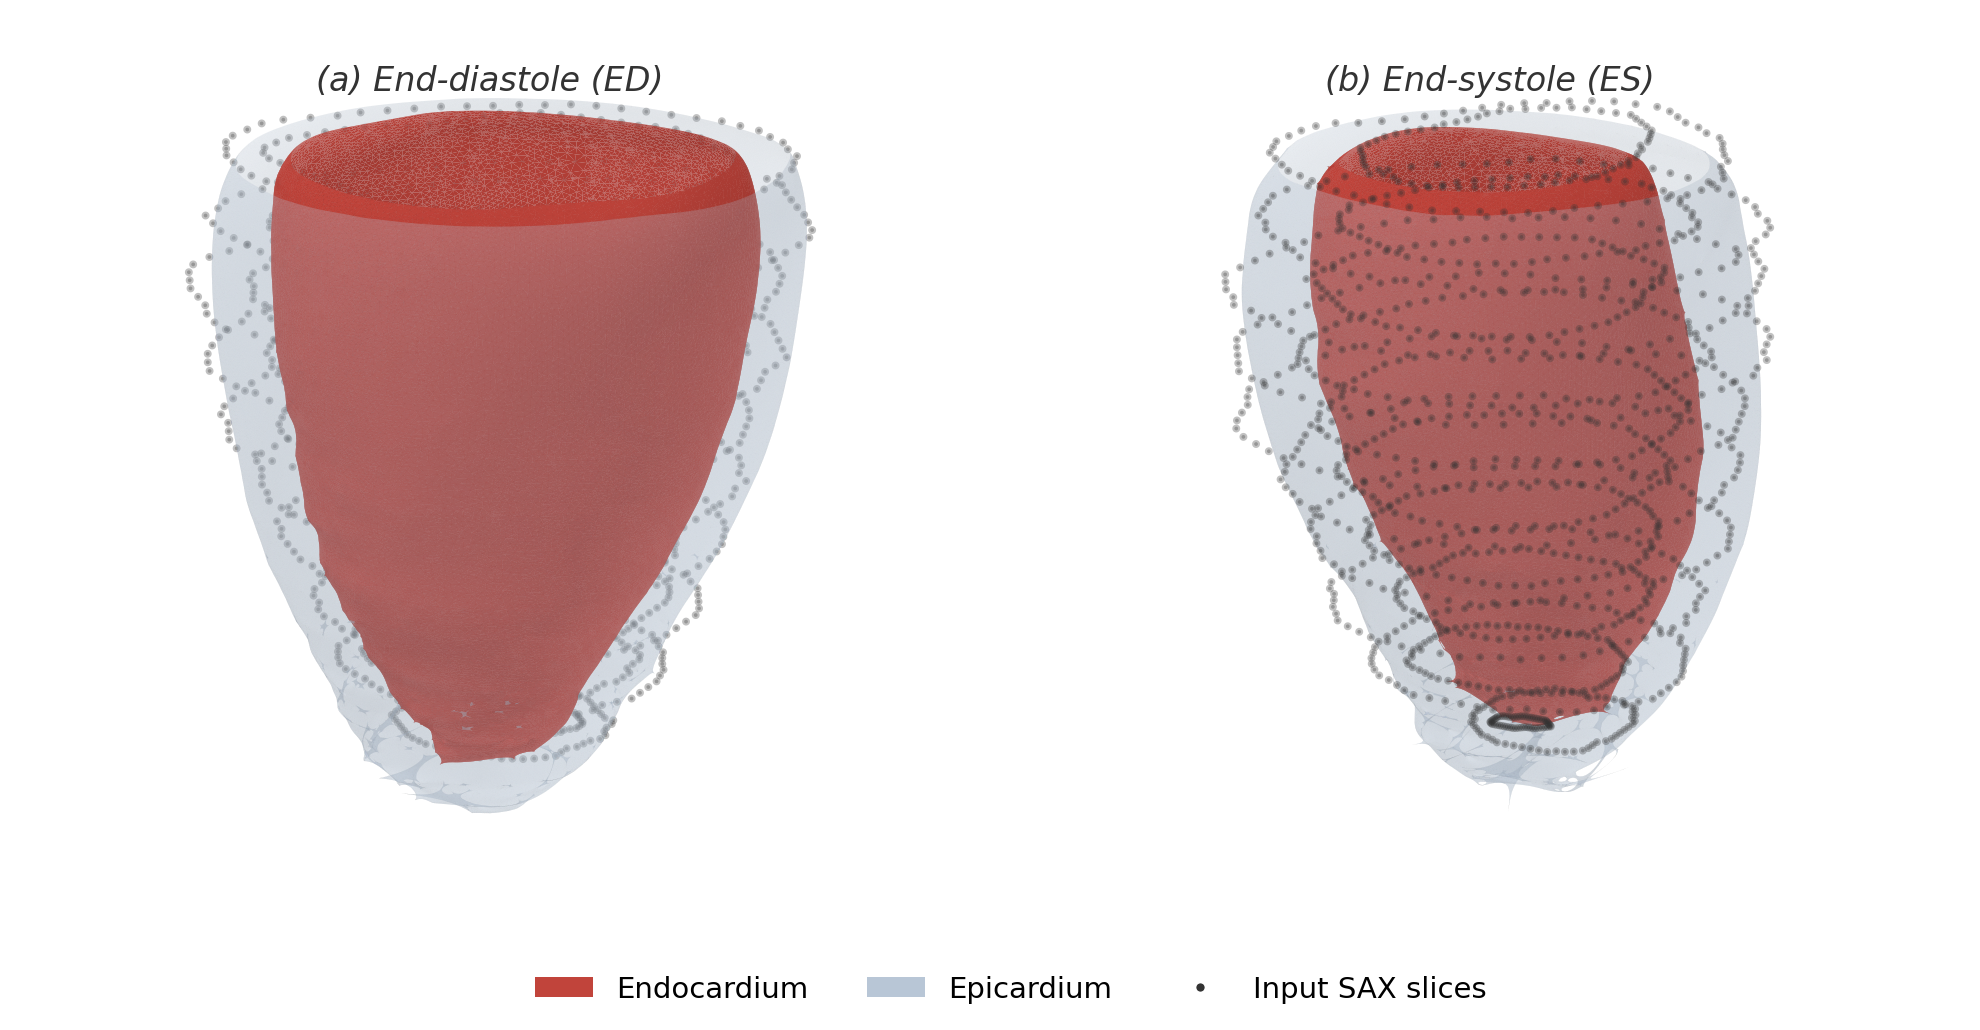
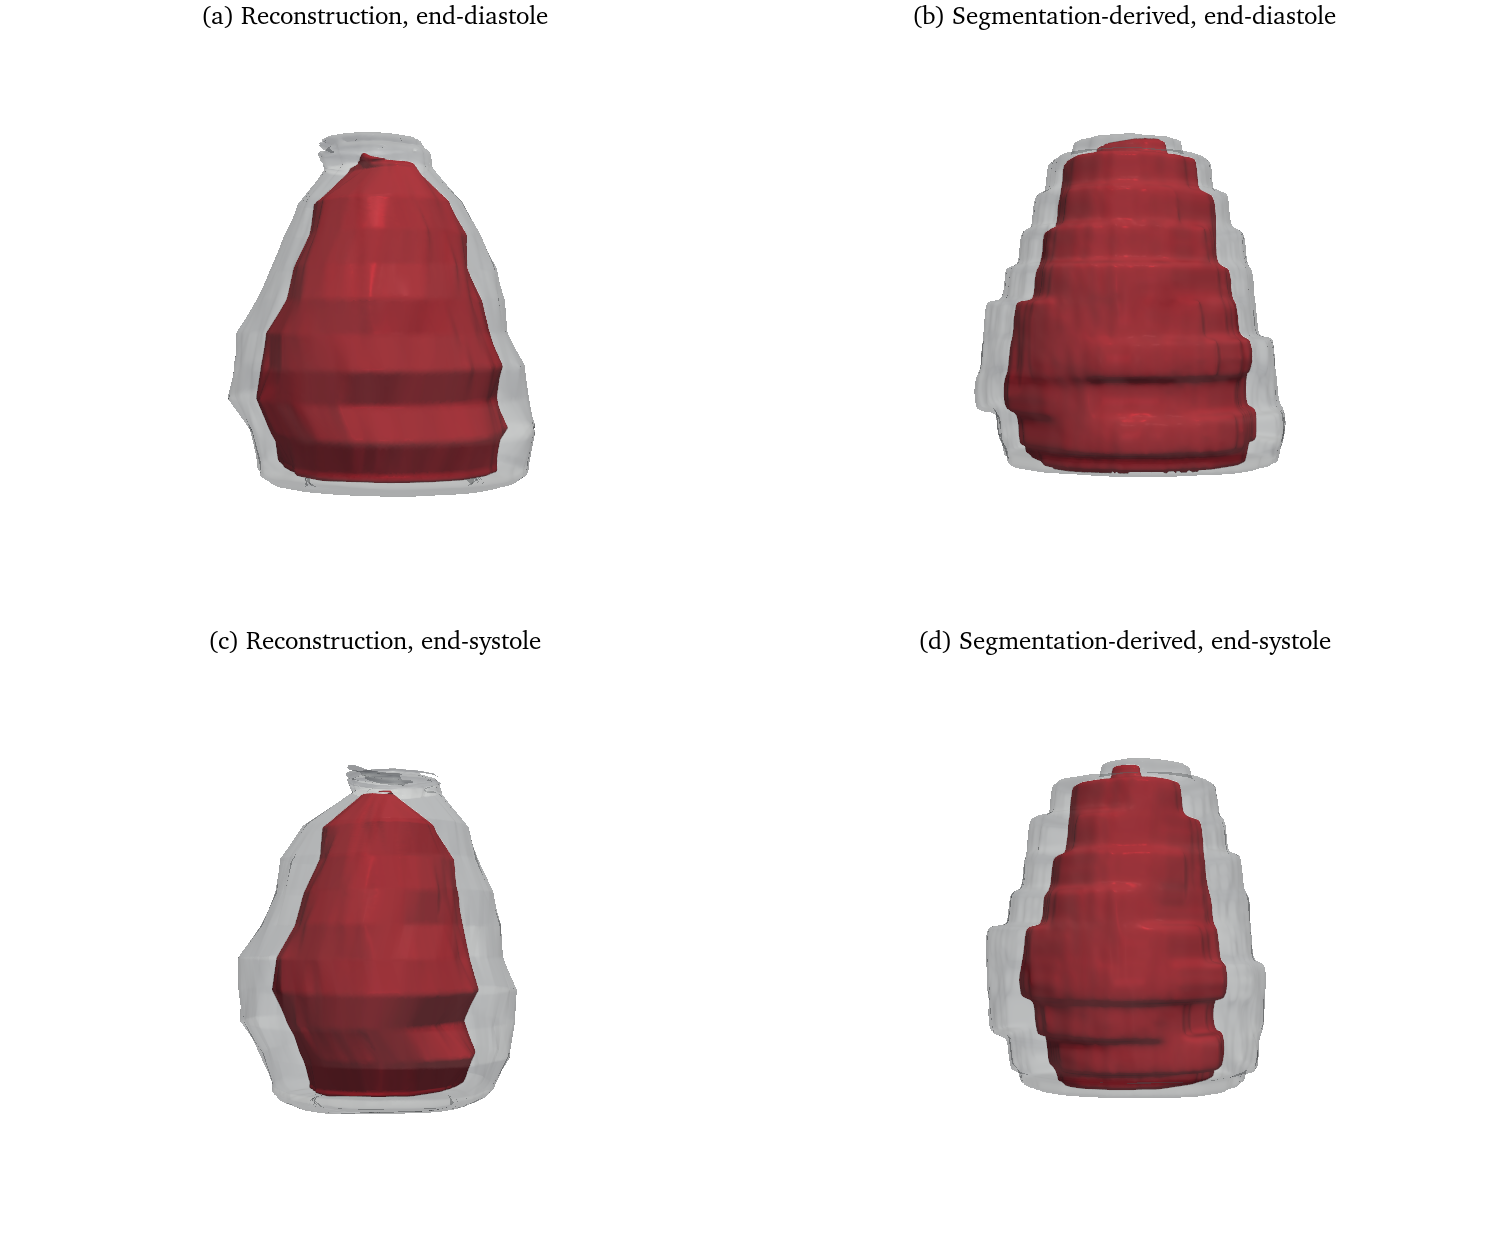
Update patient002 reconstruction script; enhance output descriptions, improve mesh loading, and ensure watertight surfaces.

diff --git a/scripts/fig_recon_ed_es_v2.py b/scripts/fig_recon_ed_es_v2.py
@@ -1,11 +1,11 @@
-"""Render the reconstruction figure for the Results chapter (new v2 cohort).
+"""Render patient002 reconstruction and segmentation-derived surfaces.
 
-Writes ``images/results_recon_ed_es.png``: the watertight reconstructed surfaces
-beside the segmentation-derived ("true") meshes, at both cardiac phases. Meshes
-are read from the cohort cache written by the evaluation run, so nothing is
-recomputed here.
+The four-panel layout matches the original Results figure. Only the model
+surfaces are radially snapped to the observed SAX contours using the same
+topology-preserving operation as the cohort evaluator. The comparator meshes
+are rendered exactly as cached, without smoothing or deformation.
 
-    C:/Python313/python.exe scripts/fig_recon_ed_es_v2.py [patientID]
+Output: ``images/results_recon_ed_es.png``.
 """
 from __future__ import annotations
 
@@ -14,26 +14,67 @@ from pathlib import Path
 
 import numpy as np
 import pyvista as pv
+import trimesh
 
 THESIS = Path(__file__).resolve().parents[1]
-CACHE = THESIS / "test-new-model" / "cohort_full_nor_hcm10" / "cache"
+DEMO_OUT = THESIS / "scripts" / "eval_demo" / "outputs"
 OUT = THESIS / "images" / "results_recon_ed_es.png"
+PATIENT = "patient002"
 
-PATIENT = sys.argv[1] if len(sys.argv) > 1 else "patient061"
+sys.path.insert(0, str(THESIS / "scripts" / "webapp"))
+from core.sdf_model import _snap_mesh_to_contours  # noqa: E402
+
 ENDO_COLOUR = "#c1121f"
 EPI_COLOUR = "#adb5bd"
 
+pv.OFF_SCREEN = True
 pv.global_theme.font.family = "times"
 
 
-def load(tag: str) -> pv.PolyData:
-    return pv.read(CACHE / f"{PATIENT}_{tag}.ply")
+def _polydata(vertices: np.ndarray, faces: np.ndarray) -> pv.PolyData:
+    cells = np.hstack([
+        np.full((len(faces), 1), 3, dtype=np.int64),
+        np.asarray(faces, dtype=np.int64),
+    ]).ravel()
+    return pv.PolyData(np.asarray(vertices, dtype=np.float32), cells)
+
+
+def load_surfaces() -> tuple[dict, dict]:
+    """Load patient002 meshes and snap only the model to the input contours."""
+    surfaces = {}
+    diagnostics = {}
+    for phase in ("ED", "ES"):
+        with np.load(DEMO_OUT / f"demo_{PATIENT}_{phase}.npz") as data:
+            contours = np.asarray(data["contours_xyz_mm"], dtype=np.float32)
+            tissue = np.asarray(data["contours_tissue"], dtype=np.float32)
+            for kind in ("model", "voxel"):
+                for wall, label in (("endo", 0), ("epi", 1)):
+                    vertices = np.asarray(data[f"{kind}_{wall}_v"], dtype=np.float32)
+                    faces = np.asarray(data[f"{kind}_{wall}_f"], dtype=np.int64)
+                    if kind == "model":
+                        vertices = _snap_mesh_to_contours(
+                            vertices, contours, tissue, surface=wall)
+
+                    mesh = trimesh.Trimesh(vertices=vertices, faces=faces,
+                                           process=False)
+                    if not mesh.is_watertight:
+                        raise RuntimeError(f"{phase} {kind} {wall} is not watertight")
+
+                    contour = contours[np.abs(tissue - label) < 0.5]
+                    _, distances, _ = trimesh.proximity.closest_point(mesh, contour)
+                    key = (phase, kind, wall)
+                    surfaces[key] = _polydata(vertices, faces)
+                    diagnostics[key] = (
+                        float(np.mean(distances)),
+                        float(np.percentile(distances, 95)),
+                    )
+    return surfaces, diagnostics
 
 
 def panel(plotter, row: int, col: int, endo, epi, title: str, frame) -> None:
     plotter.subplot(row, col)
     plotter.add_text(title, font_size=11, position="upper_edge", color="black")
-    plotter.add_mesh(frame, opacity=0.0, show_scalar_bar=False)  # common framing
+    plotter.add_mesh(frame, opacity=0.0, show_scalar_bar=False)
     plotter.add_mesh(epi, color=EPI_COLOUR, opacity=0.28, smooth_shading=True,
                      specular=0.2)
     plotter.add_mesh(endo, color=ENDO_COLOUR, opacity=1.0, smooth_shading=True,
@@ -41,24 +82,17 @@ def panel(plotter, row: int, col: int, endo, epi, title: str, frame) -> None:
 
 
 def main() -> None:
-    surfaces = {}
-    for phase in ("ED", "ES"):
-        for kind in ("model", "voxel"):
-            for wall in ("endo", "epi"):
-                surfaces[(phase, kind, wall)] = load(f"{phase}_{kind}_{wall}")
+    surfaces, diagnostics = load_surfaces()
 
-    # Shared framing: an invisible box spanning every surface, added to each
-    # panel so all four are drawn at the same scale.
-    bounds = np.array([s.bounds for s in surfaces.values()])
+    bounds = np.array([surface.bounds for surface in surfaces.values()])
     focus = (bounds[:, 0].min(), bounds[:, 1].max(),
              bounds[:, 2].min(), bounds[:, 3].max(),
              bounds[:, 4].min(), bounds[:, 5].max())
     frame = pv.Box(bounds=focus)
 
-    plotter = pv.Plotter(shape=(2, 2), window_size=(1500, 1250), off_screen=True,
-                         border=False)
+    plotter = pv.Plotter(shape=(2, 2), window_size=(1500, 1250),
+                         off_screen=True, border=False)
     plotter.set_background("white")
-
     layout = [
         (0, 0, "ED", "model", "(a) Reconstruction, end-diastole"),
         (0, 1, "ED", "voxel", "(b) Segmentation-derived, end-diastole"),
@@ -67,8 +101,8 @@ def main() -> None:
     ]
     for row, col, phase, kind, title in layout:
         panel(plotter, row, col,
-              surfaces[(phase, kind, "endo")], surfaces[(phase, kind, "epi")],
-              title, frame)
+              surfaces[(phase, kind, "endo")],
+              surfaces[(phase, kind, "epi")], title, frame)
         plotter.view_vector((1.6, -1.6, 0.0), viewup=(0.0, 0.0, 1.0))
         plotter.reset_camera()
         plotter.camera.zoom(0.9)
@@ -76,10 +110,12 @@ def main() -> None:
     plotter.link_views()
     plotter.screenshot(str(OUT), transparent_background=False)
     plotter.close()
-    print(f"Wrote {OUT.relative_to(THESIS)} from {PATIENT}")
-    for key, mesh in surfaces.items():
-        print(f"  {key}: watertight={mesh.is_manifold} "
-              f"n_faces={mesh.n_faces_strict}")
+
+    print(f"wrote {OUT.relative_to(THESIS)} from {PATIENT}")
+    for key, surface in surfaces.items():
+        mean, p95 = diagnostics[key]
+        print(f"  {key}: watertight={surface.is_manifold}, "
+              f"contour distance={mean:.3f} mm mean/{p95:.3f} mm p95")
 
 
 if __name__ == "__main__":
